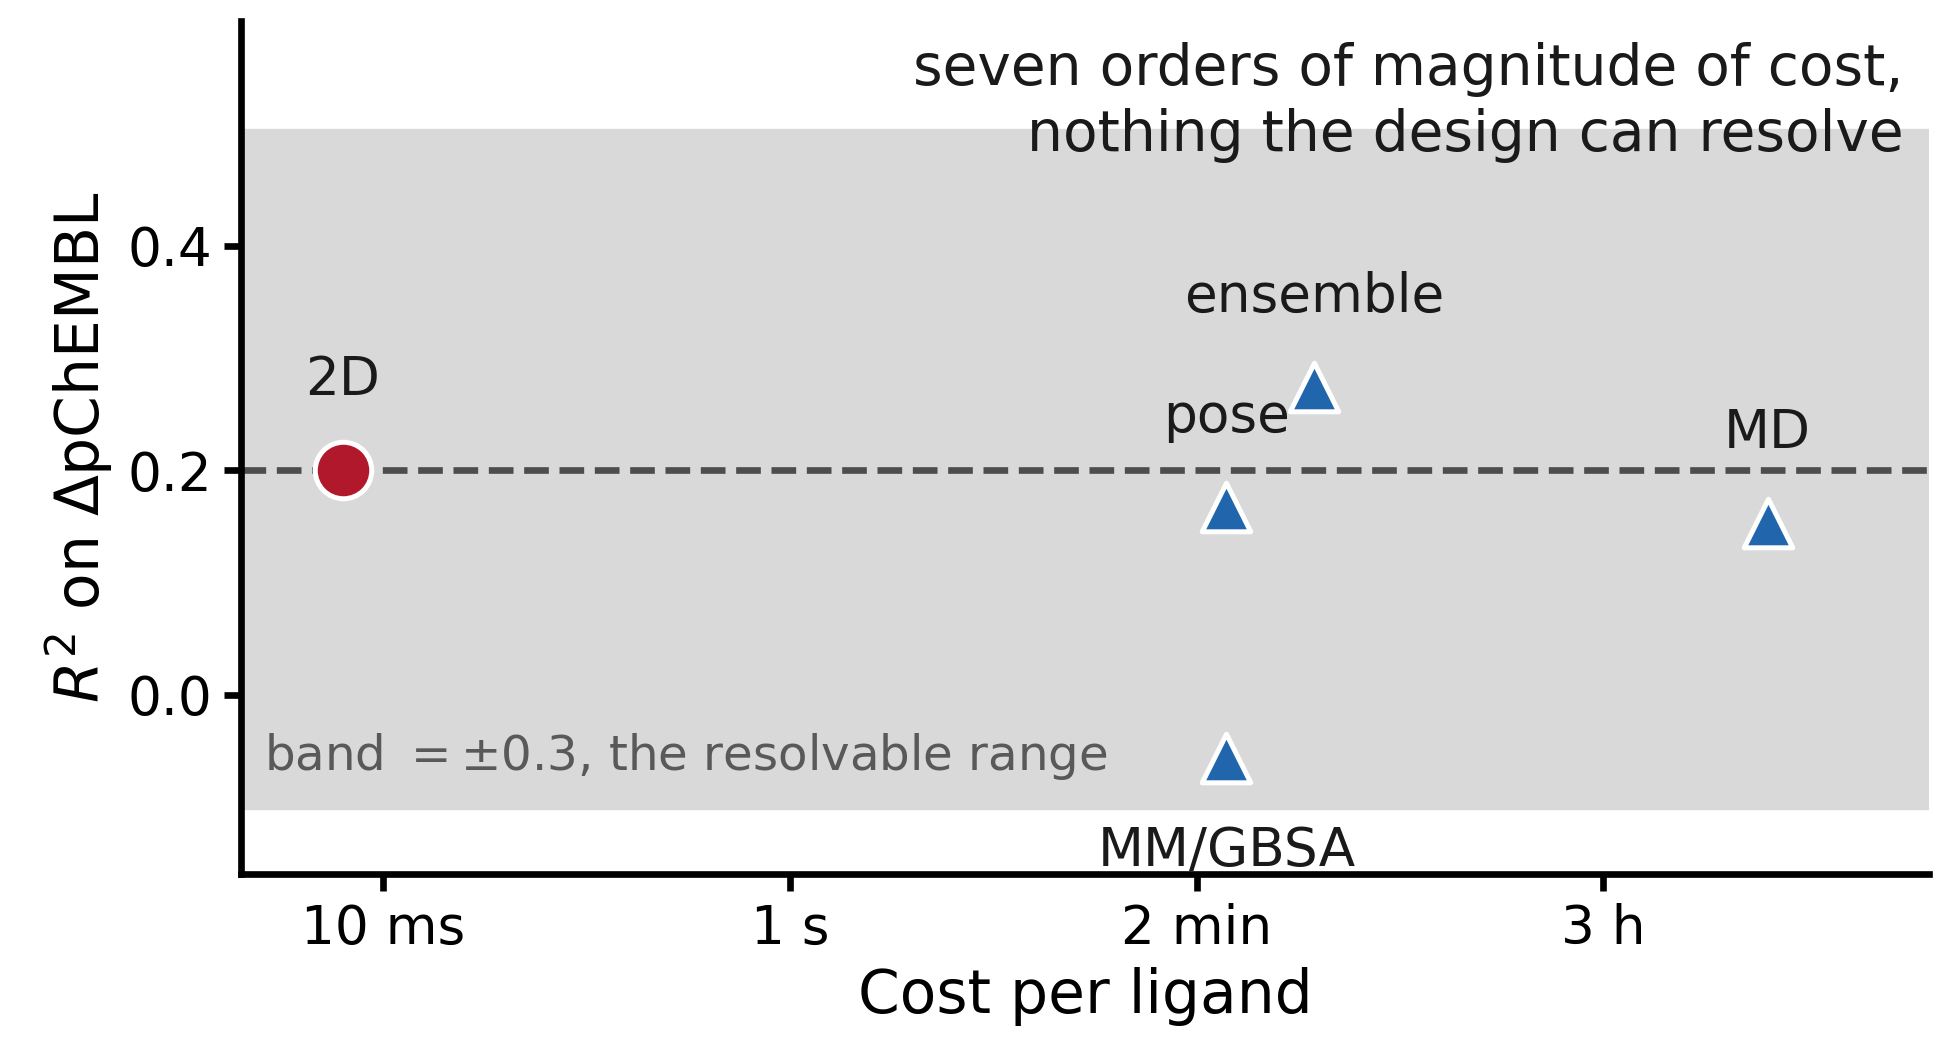
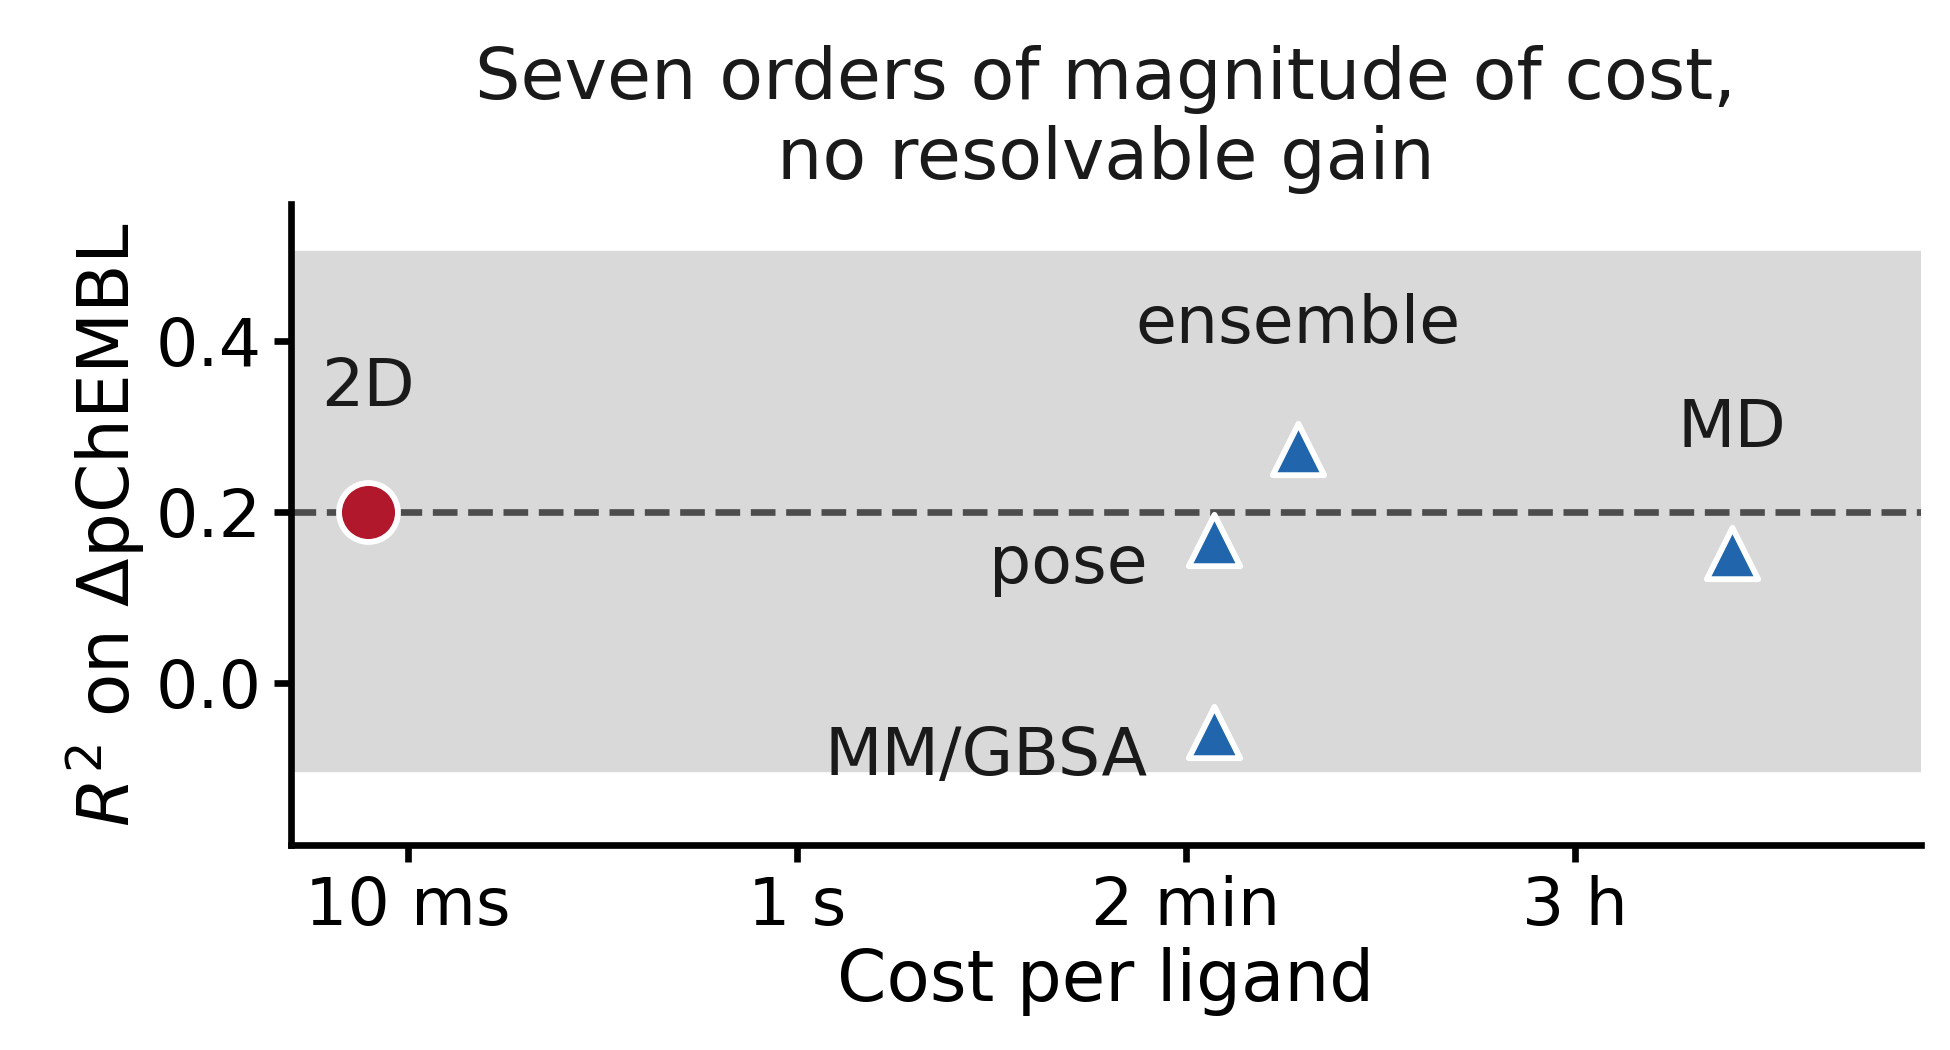
Clean up the table-of-contents page
The two black rules flanking the graphic were the template's own measuring
aid, there to judge whether the material fits 1.75 inches. The template says
to delete them once it does, and it does, so they are gone. They would
otherwise have read as part of the artwork.

Raised every label in the graphic to 8 pt or above, from 5.8 to 8 for the
smallest, since ACS wants a TOC entry legible at its print size and the
previous sizes were set for screen. The band annotation is dropped, the
headline carries the message instead, and the point labels are placed
individually: "pose" and "MM/GBSA" share an x and now sit to their left in the
empty stretch between the fingerprint and the docked rungs, where before they
stacked on each other and on the 2 min tick.

Changed region(s): [[0.0308, 0.0305, 1.0, 0.9752], [0.2769, 0.4876, 0.3077, 0.5181]]

diff --git a/scripts/fig_toc.py b/scripts/fig_toc.py
@@ -53,37 +53,40 @@ def main() -> None:
     ax.axhspan(base - RESOLUTION, base + RESOLUTION, color="#d9d9d9", zorder=0)
     ax.axhline(base, color="#4d4d4d", lw=0.8, ls="--", zorder=1)
 
+    # "pose" and "MM/GBSA" share an x, so they are labelled to the left into the
+    # empty stretch between the fingerprint and the docked rungs instead of above,
+    # where they would stack on each other and on the 2 min tick.
+    PLACE = {"2D":       ((0, 11),  "center"),
+             "pose":     ((-8, -3), "right"),
+             "MM/GBSA":  ((-8, -3), "right"),
+             "ensemble": ((0, 11),  "center"),
+             "MD":       ((0, 11),  "center")}
     for lab, x, y, is_base in pts:
-        ax.scatter([x], [y], s=46 if is_base else 34,
+        ax.scatter([x], [y], s=50 if is_base else 38,
                    c="#b2182b" if is_base else "#2166ac",
                    marker="o" if is_base else "^",
-                   edgecolors="white", linewidths=0.6, zorder=3)
-        dy = 0.085 if lab not in ("MM/GBSA",) else -0.135
-        ax.annotate(lab, (x, y), textcoords="offset points",
-                    xytext=(0, 9 if dy > 0 else -13), ha="center",
-                    fontsize=6.4, color="#1a1a1a", zorder=4)
+                   edgecolors="white", linewidths=0.7, zorder=3)
+        off, ha = PLACE[lab]
+        ax.annotate(lab, (x, y), textcoords="offset points", xytext=off,
+                    ha=ha, va="center" if ha != "center" else "bottom",
+                    fontsize=8.0, color="#1a1a1a", zorder=4)
 
     ax.set_xscale("log")
-    ax.set_xlim(2e-3, 4e5)
-    ax.set_ylim(base - RESOLUTION - 0.06, base + RESOLUTION + 0.10)
+    ax.set_xlim(2.5e-3, 6e5)
+    ax.set_ylim(base - RESOLUTION - 0.09, base + RESOLUTION + 0.06)
     ax.set_xticks([1e-2, 1e0, 1e2, 1e4])
-    ax.set_xticklabels(["10 ms", "1 s", "2 min", "3 h"], fontsize=6.4)
+    ax.set_xticklabels(["10 ms", "1 s", "2 min", "3 h"], fontsize=8.0)
     ax.set_yticks([0.0, 0.2, 0.4])
-    ax.set_yticklabels(["0.0", "0.2", "0.4"], fontsize=6.4)
-    ax.set_xlabel("Cost per ligand", fontsize=7.2, labelpad=1.5)
-    ax.set_ylabel("$R^2$ on $\\Delta$pChEMBL", fontsize=7.2, labelpad=1.5)
+    ax.set_yticklabels(["0.0", "0.2", "0.4"], fontsize=8.0)
+    ax.set_xlabel("Cost per ligand", fontsize=8.5, labelpad=1.0)
+    ax.set_ylabel("$R^2$ on $\\Delta$pChEMBL", fontsize=8.5, labelpad=1.0)
     ax.tick_params(length=2, pad=1.5)
     ax.spines[["top", "right"]].set_visible(False)
 
-    ax.text(0.985, 0.975,
-            "seven orders of magnitude of cost,\nnothing the design can resolve",
-            transform=ax.transAxes, ha="right", va="top",
-            fontsize=6.8, color="#1a1a1a", linespacing=1.25)
-    ax.text(2.6e-3, base - RESOLUTION + 0.022,
-            r"band $=\pm0.3$, the resolvable range",
-            fontsize=5.8, color="#595959", va="bottom")
+    ax.set_title("Seven orders of magnitude of cost,\nno resolvable gain",
+                 fontsize=8.6, color="#1a1a1a", pad=3, linespacing=1.2)
 
-    fig.tight_layout(pad=0.25)
+    fig.tight_layout(pad=0.35)
     FIGS.mkdir(exist_ok=True)
     for ext in ("pdf", "png"):
         fig.savefig(FIGS/f"fig_toc.{ext}", dpi=600)

diff --git a/manuscript/main.tex b/manuscript/main.tex
@@ -183,14 +183,13 @@ mini-cluster and HPC facilities.
 \nolinenumbers
 \section*{For Table of Contents use only}
 
+% The graphic is drawn at exactly 3.25 by 1.75 inches, the size ACS allows, so
+% it is included at its natural size. The template's two measuring rules are
+% deleted, as it says to do once the material fits.
 \noindent
-\rule{0.05in}{1.75in}%
 \begin{minipage}[b][1.75in]{3.25in}
-  \sffamily
-  \frenchspacing
   \centering
   \includegraphics[width=3.25in]{fig\_toc.pdf}
-\end{minipage}%
-\rule{0.05in}{1.75in}
+\end{minipage}
 
 \end{document}
